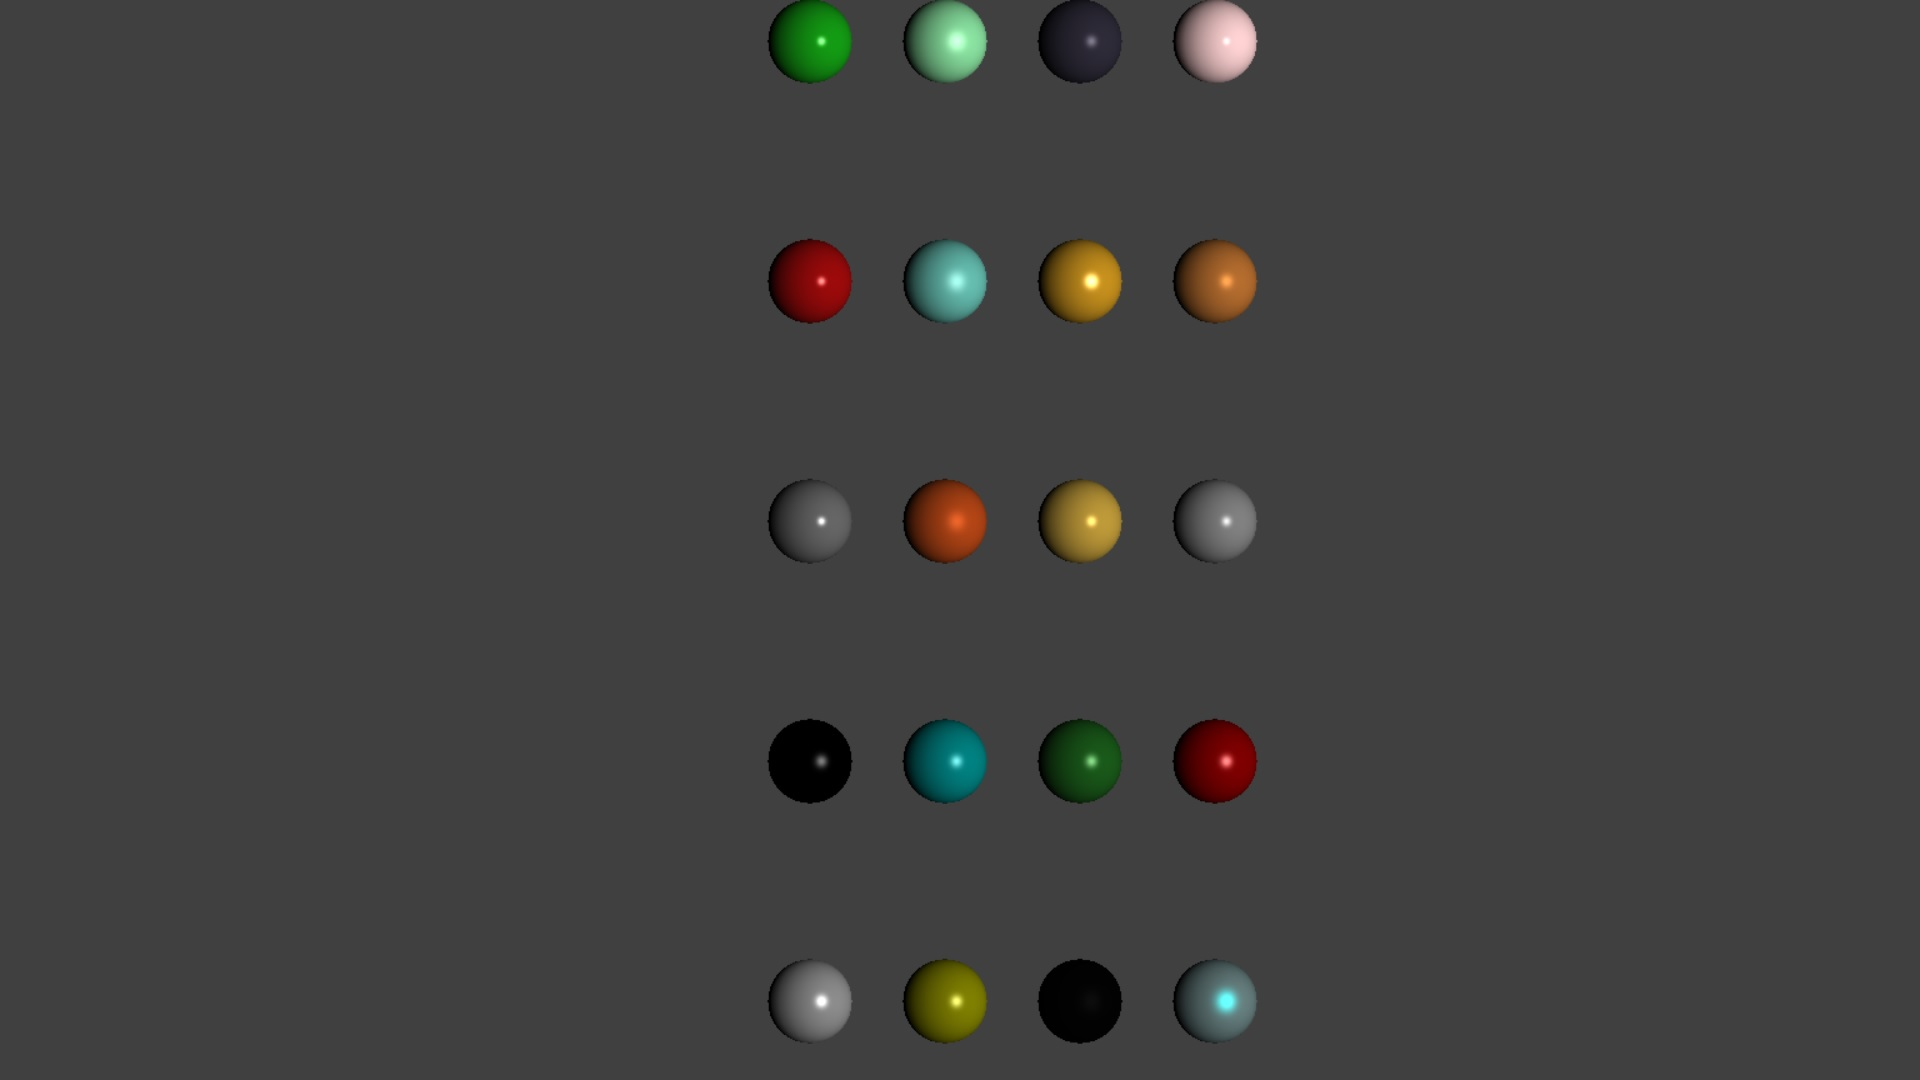
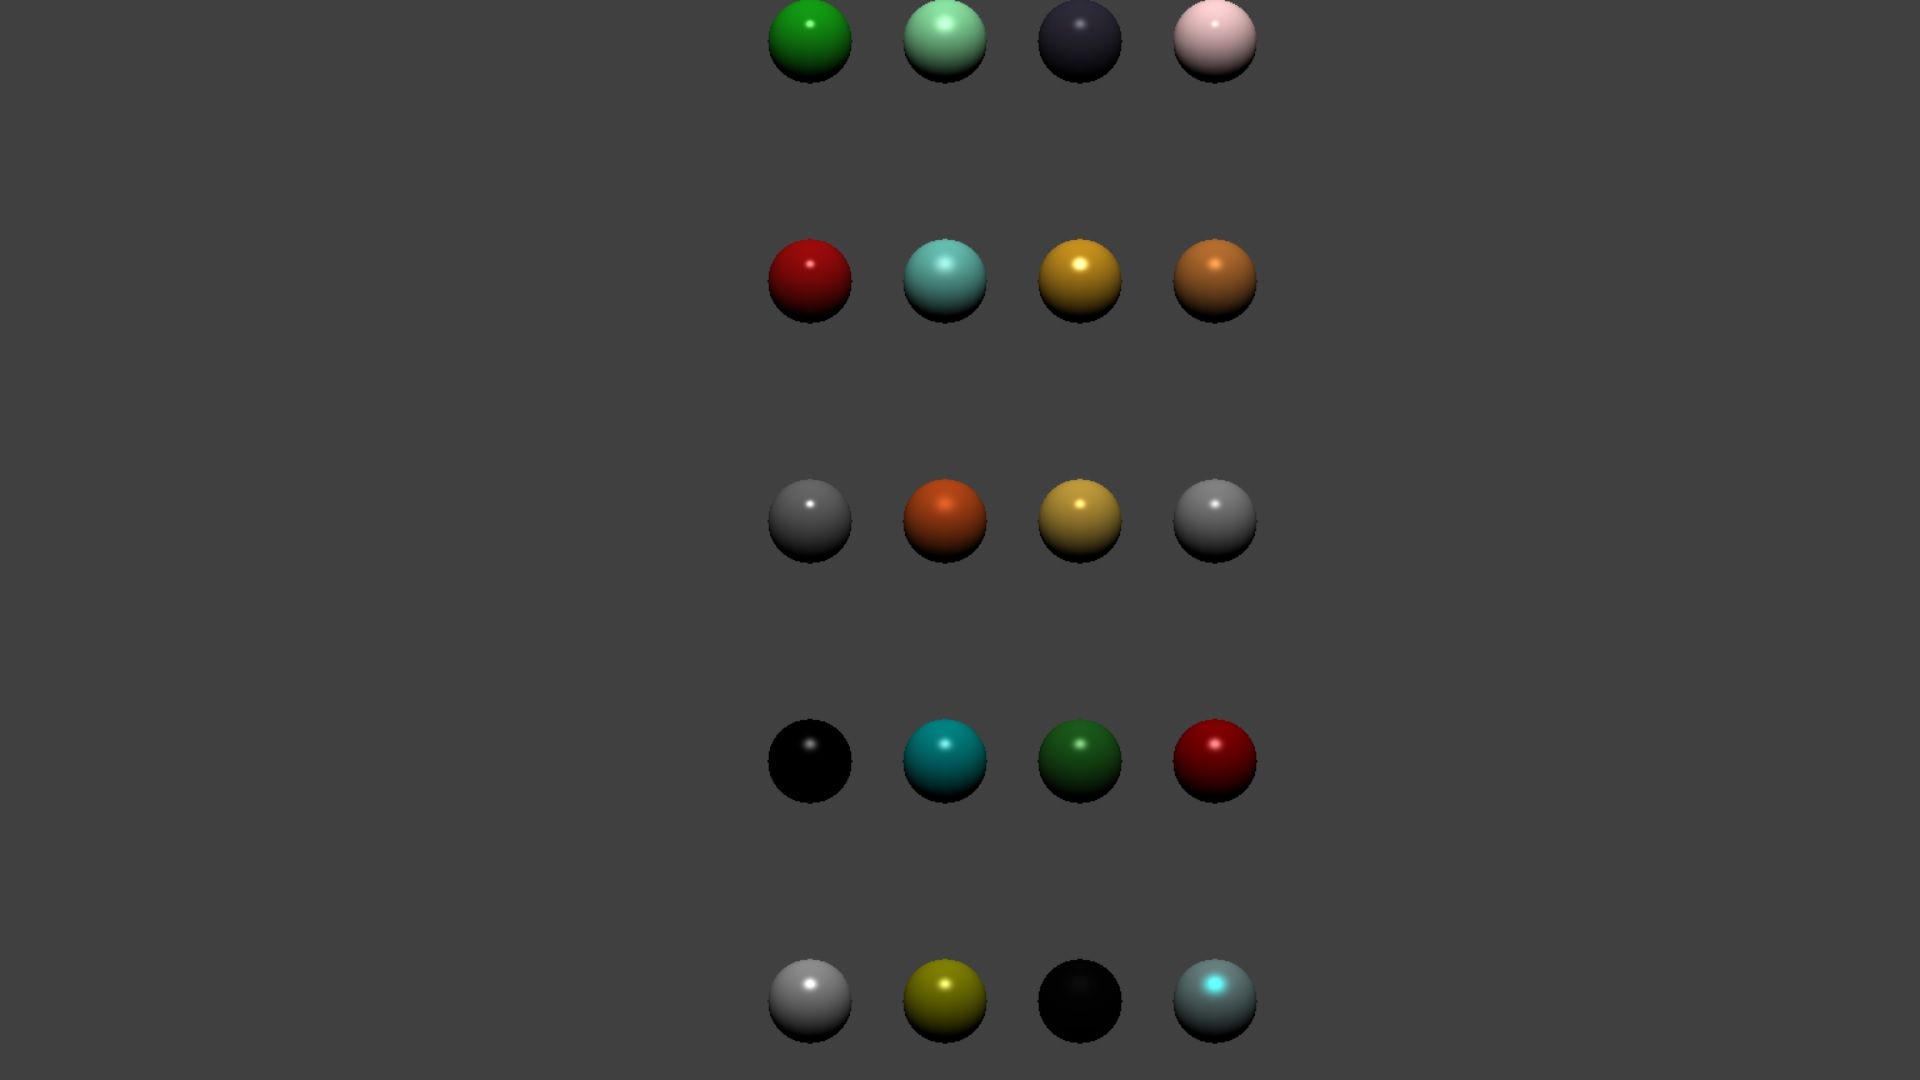
Windows-24-spehres-ratio-correction

diff --git a/OpenGL_On_Windows/Native/February25/06-PP-24-spheres-exper/06-PP-24-spheres/Source.cpp b/OpenGL_On_Windows/Native/February25/06-PP-24-spheres-exper/06-PP-24-spheres/Source.cpp
@@ -616,7 +616,11 @@ void draw_spheres(GLint no_of_spheres, material_props_t material_properties[], i
 	//winHeight = 600;
 	GLint windowCenterX = winWidth / 2;
 	GLint windowCenterY = winHeight / 2;
-	GLint viewPortSizeX = winWidth / 8, viewPortSizeY = winHeight/8;
+	GLint viewPortSizeX = winWidth / 8; 
+	GLint viewPortSizeY = winHeight / 8;
+	GLfloat newAspectRatio = (float)viewPortSizeX / (float)viewPortSizeY;
+	//update perspective according to new aspect ratio
+	gPerspectiveProjectionMatrix = vmath::perspective(45.0f, newAspectRatio, 0.1f, 100.0f);
 	glViewport(windowCenterX, windowCenterY, viewPortSizeX, viewPortSizeY);
 
 	int y_trans = viewPortSizeX;
@@ -631,8 +635,6 @@ void draw_spheres(GLint no_of_spheres, material_props_t material_properties[], i
 
 		int local_y_trans = 0;
 		if (((i - 1) % 4) == 0 && (i - 1 != 0)) {
-			//local_y_trans = distanceBetSpheres;
-			//y_trans -= local_y_trans;
 			currentViewPortX = windowCenterX - x_trans*3;
 			currentViewPortY -= y_trans;
 			glViewport(currentViewPortX, currentViewPortY, viewPortSizeX, viewPortSizeY);
